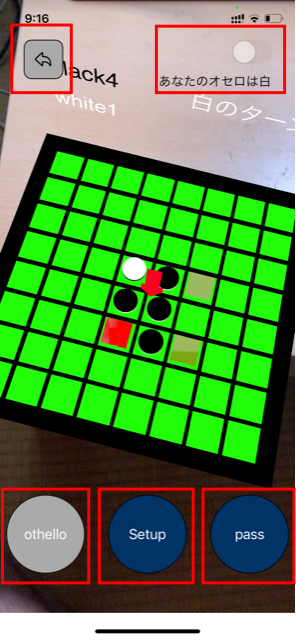
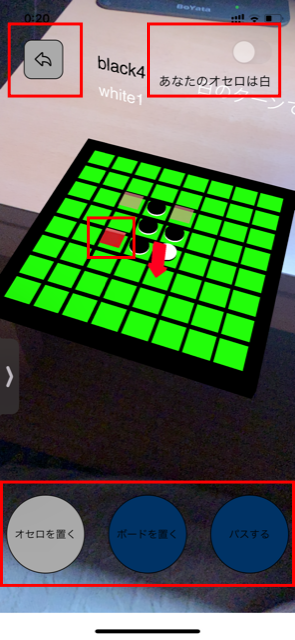
add file

diff --git a/templates/index.html b/templates/index.html
@@ -49,10 +49,11 @@
                             <p class="privacy-policy__item__desc">下記ゲームの流れを示します。</p>
                                 <ol>
                                     <li>画面右上部のスイッチボタンより、黒または白を選択肢し、自分のオセロの色を決めます。</Li>
-                                    <li>画面の中心部を平面部に合わせることで写真2のような矢印が表示されるますので、表示されている状態で、画面下部のSetupボタンを押し、オセロ板を表示させます。</Li>
-                                    <li>自分がオセロを置く場所は、写真2のように濃い赤い色のタイルで表示されます。置く場所に問題なければ、画面下部のothelloボタンを押してください。また、置く場所は画面を動かして矢印を移動させることで変更できます。(注意；オセロ置ける場所がなかった場合、濃い赤いタイルが表示されませんので、その際は、画面下部のpassボタンを押してください)</Li>
-                                    <li>以降、CPUと交互にオセロを置いていき、置ける場所がなくなる場合、どちらかのオセロが全てひっくり返された場合、お互いオセロが置けなくなる状態になるまで、上記3の操作をおこないます。</li>
+                                    <li>画面の中心部を平面部に合わせることで写真2のような矢印が表示されるますので、表示されている状態で、画面下部のボードを置くボタンを押し、オセロ板を表示させます。</Li>
+                                    <li>自分がオセロを置く場所は、写真2のように濃い赤い色のタイルで表示されます。置く場所に問題なければ、画面下部のオセロを置くボタンを押してください。また、置く場所は画面を動かして矢印を移動させることで変更できます。(注意；オセロ置ける場所がなかった場合、濃い赤いタイルが表示されませんので、その際は、画面下部のpassボタンを押してください)</Li>
+                                    <li>以降、CPUと交互にオセロを置いていき、置ける場所がなくなった場合、どちらかのオセロが全てひっくり返された場合、お互いオセロが置けなくなる状態になるまで、上記3の操作をおこないます。</li>
                                     <li>最終的に勝者のオセロの色と各オセロの数がゲーム上に表示されます。</li>
+                                    <li>ゲーム終了後、タイトルに戻るボタンでタイトル画面 に戻れます。</li>
                                 </ol>
                             <p class="privacy-policy__item__desc">※画面左上の矢印ボタンを押すことでタイトル画面に戻り、いつでもゲームを中断できます。</p>
                         </div>
@@ -65,7 +66,6 @@
                         <img src="{% static 'picture/battleScreen.PNG' %}"></img>
                         <h5>写真2. 対戦画面</h5>
                     </div>
-
                 </div>
             </div>
             <div class="privacy-policy">

diff --git a/static/css/site.css b/static/css/site.css
@@ -13,7 +13,6 @@
     .sample-box p {
         position: absolute;
         top: 5%;
-        /* left: 52%; */
         width: 100%;
         color: #000000; 
         font-size: 20px; 

diff --git a/static/css/contactForm.css b/static/css/contactForm.css
@@ -58,5 +58,4 @@
         width: 100%;
         height: 500px;
     }
-    
 }
